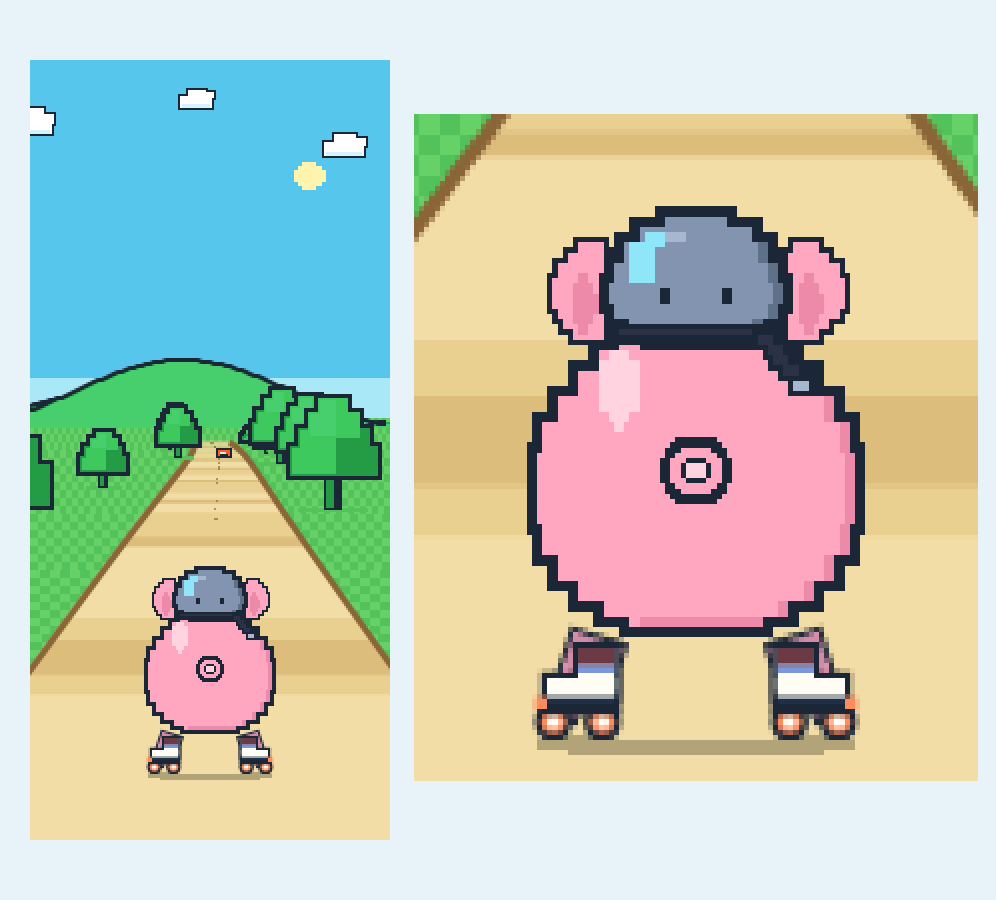
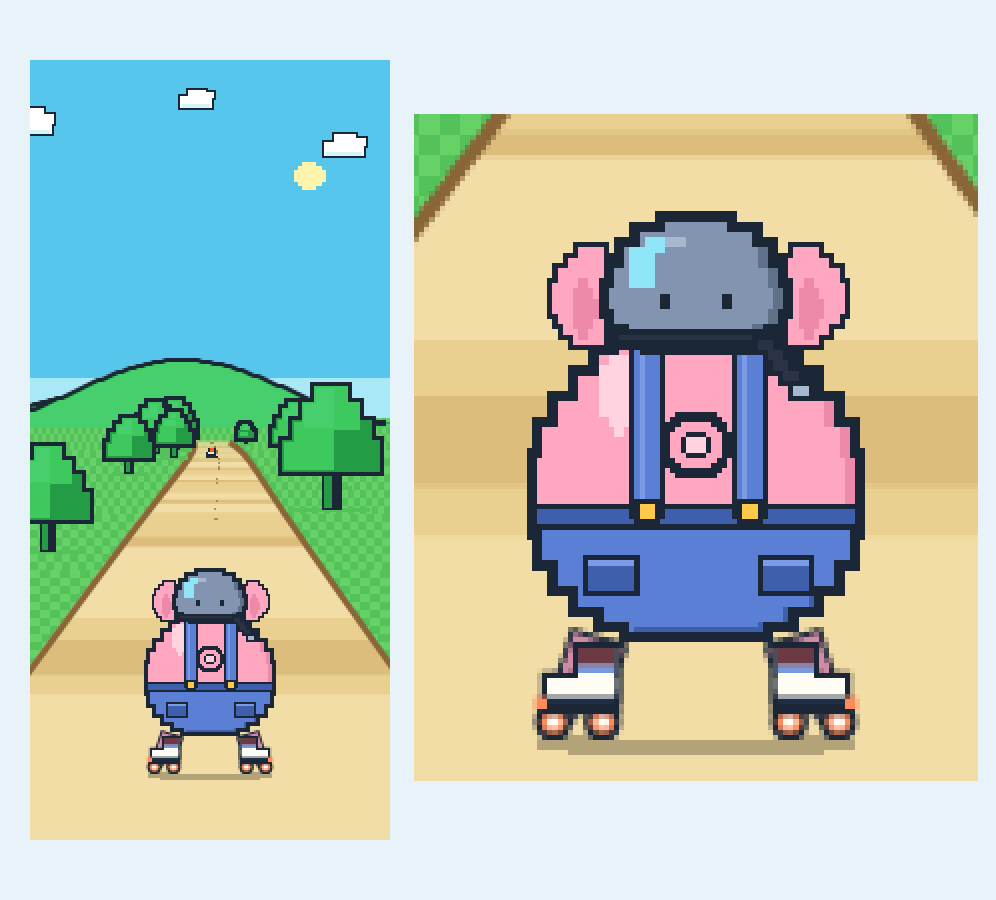
feat: update workspace

diff --git a/one-step/index.html b/one-step/index.html
@@ -1289,11 +1289,61 @@
 
     // 卷尾：屁股中央的像素同心螺旋
     const tx = cx + shift;
-    const ty = bodyTop + 31 * u;
+    const ty = bodyTop + 25.5 * u;
     pixelDisc(tx, ty, 7 * u, pal.ink);
     pixelDisc(tx, ty, 5.2 * u, PIG.skin);
     pixelDisc(tx, ty, 3.2 * u, pal.ink);
     pixelDisc(tx, ty, 1.5 * u, PIG.light);
+
+    // 牛仔短背带裤：贴着大圆屁股的下半部分
+    const shortsTop = bodyTop + 42 * u;
+    const shortRows = [
+      { w: 60 * u, h: 6 * u },
+      { w: 54 * u, h: 5 * u }, { w: 46 * u, h: 4 * u },
+      { w: 36 * u, h: 3 * u }, { w: 26 * u, h: 2 * u }
+    ];
+    pigBlob(cx + shift, shortsTop, shortRows, PIG.denim, PIG.denim2, 1);
+    // 裤腰
+    pigBlob(cx + shift, bodyTop + 38.5 * u, [{ w: 62 * u, h: 3 * u }], PIG.denim2, null, 1);
+
+    // 背带
+    for (const dir of [-1, 1]) {
+      const sw = Math.max(3, Math.round(5 * u));
+      const sx = Math.round(cx + shift + dir * 10 * u - sw / 2);
+      const sy0 = Math.round(bodyTop + 4 * u);
+      const sy1 = Math.round(bodyTop + 39 * u);
+      ctx.fillStyle = pal.ink;
+      ctx.fillRect(sx - 1, sy0 - 1, sw + 2, sy1 - sy0 + 2);
+      ctx.fillStyle = PIG.denim;
+      ctx.fillRect(sx, sy0, sw, sy1 - sy0);
+      ctx.fillStyle = PIG.denim3;
+      ctx.fillRect(sx + 1, sy0, 1, sy1 - sy0);
+    }
+
+    // 背带扣
+    for (const dir of [-1, 1]) {
+      const bw = Math.max(2, Math.round(3 * u));
+      const bx0 = Math.round(cx + shift + dir * 10 * u - bw / 2);
+      const by0 = Math.round(bodyTop + 37 * u);
+      ctx.fillStyle = pal.ink;
+      ctx.fillRect(bx0 - 1, by0 - 1, bw + 2, bw + 2);
+      ctx.fillStyle = PIG.gold;
+      ctx.fillRect(bx0, by0, bw, bw);
+    }
+
+    // 屁股口袋
+    for (const dir of [-1, 1]) {
+      const pw = Math.max(5, Math.round(9 * u));
+      const ph = Math.max(4, Math.round(6 * u));
+      const px0 = Math.round(cx + shift + dir * 17 * u - pw / 2);
+      const py0 = Math.round(bodyTop + 48 * u);
+      ctx.fillStyle = pal.ink;
+      ctx.fillRect(px0 - 1, py0 - 1, pw + 2, ph + 2);
+      ctx.fillStyle = PIG.denim2;
+      ctx.fillRect(px0, py0, pw, ph);
+      ctx.fillStyle = PIG.denim3;
+      ctx.fillRect(px0, py0, pw, 1);
+    }
 
     // 大圆垂耳：先画，头盔随后盖住耳根
     for (const dir of [-1, 1]) {
